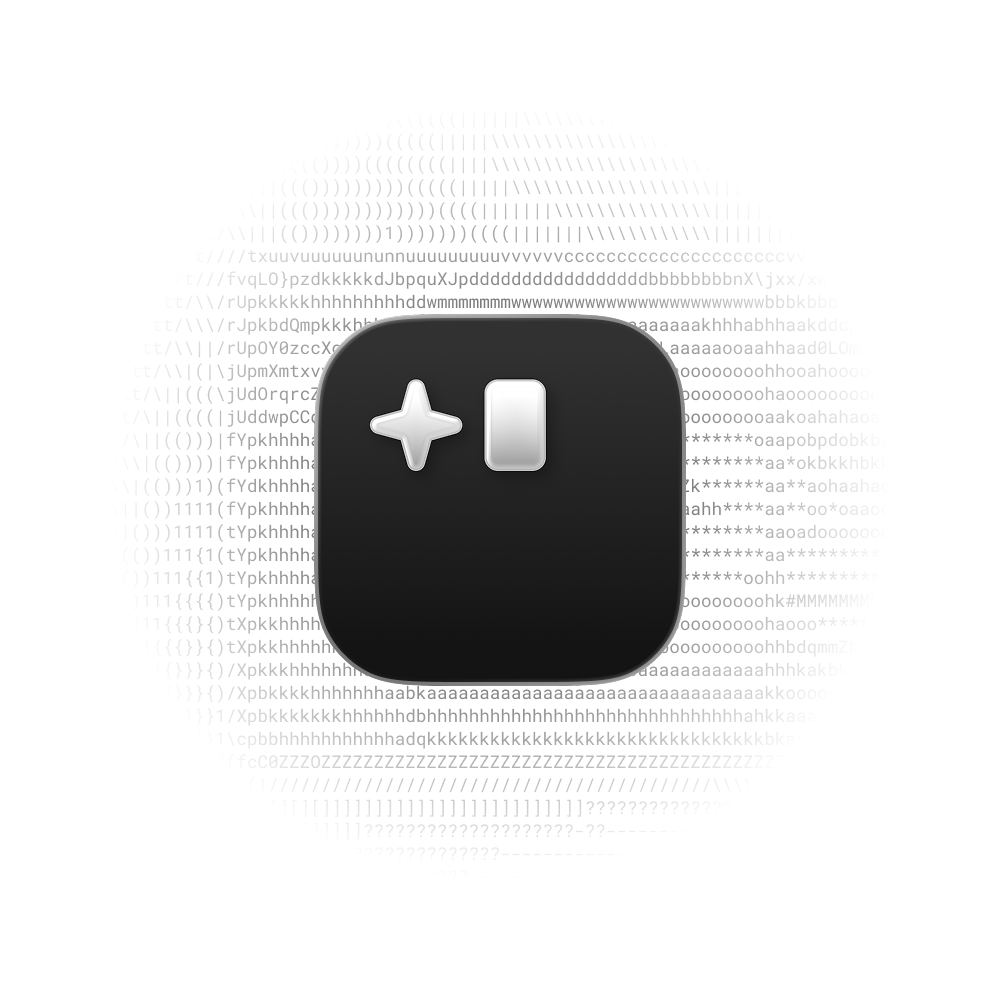
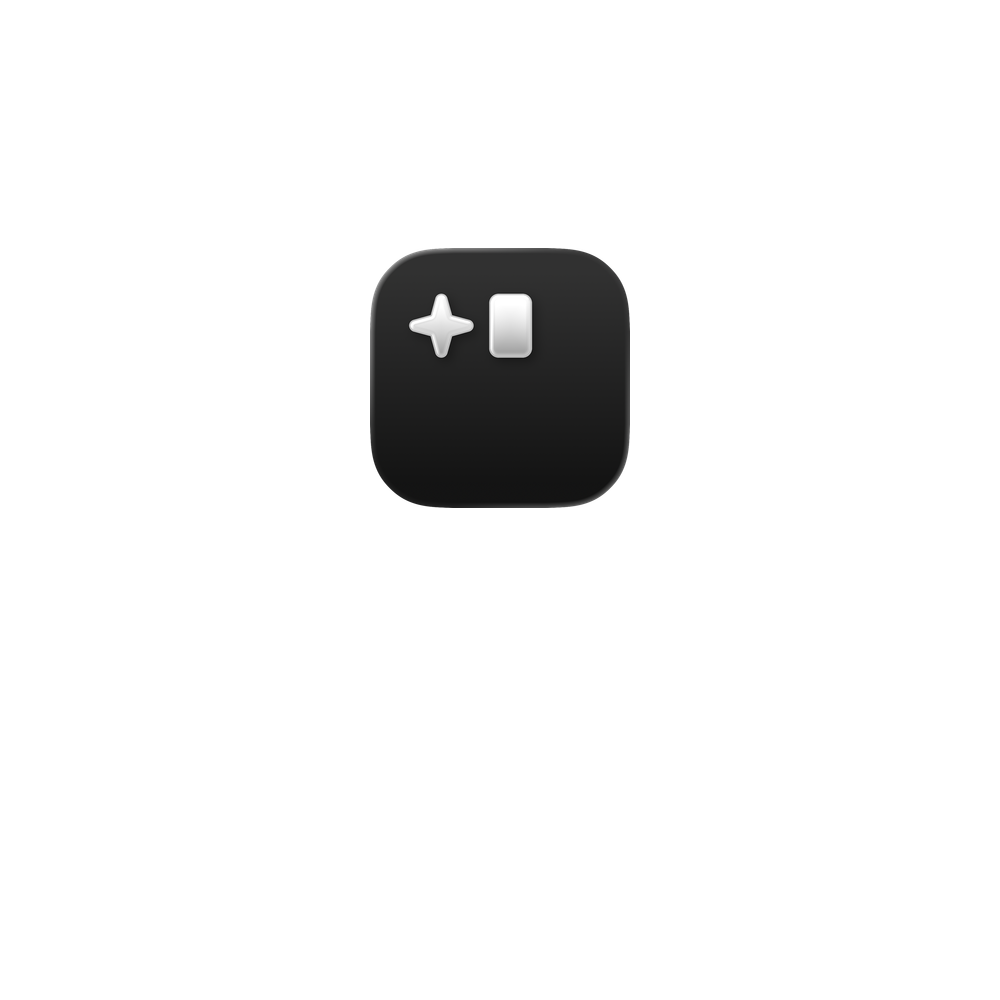
Paint a live ASCII field behind the Ultra tile
Ultra's cover carried its backdrop as pixels: a static ASCII field baked
into the PNG behind the app icon, fixed to one colour whichever theme the
page was in. Replace it with a live one.

<ascii-bg> is a zero-configuration web component — no attributes, props,
options or palette. It fills its parent, sits behind the parent's content,
and paints in whatever currentColor it inherits, so a theme swap or a
token change recolours it with nothing wired up. It resizes with its
parent, takes a subtle distortion from the pointer, and freezes to a
single paint under prefers-reduced-motion.

A product opts in with `tileBackground: ascii`. Ultra also moves to the
overlay layout it shares with the video tiles — full-height cover, title
and description floating over its foot — and its cover becomes the bare
icon on a transparent ground, so the field reads around it.

Claude-Session: https://claude.ai/code/session_01UM66Go8X1qX2EqxNb6Dsig

Changed region(s): [[0.155, 0.186, 0.837, 0.775], [0.434, 0.806, 0.527, 0.837], [0.527, 0.186, 0.589, 0.217]]

diff --git a/components/AsciiBg/ascii-bg.ts b/components/AsciiBg/ascii-bg.ts
@@ -1,0 +1,107 @@
+// <ascii-bg> — a zero-configuration animated ASCII field that fills its parent
+// and sits behind the parent's content. No attributes, no props, no palette:
+// it paints in whatever `currentColor` it inherits, so themes, dark mode and
+// hover states drive it for free. The parent needs `position: relative` and
+// `overflow: hidden`; anything that should sit above it needs `position`.
+const RAMP = " .:-=+*#%@";
+const CELL = 12;
+const FRAME = 40; // ~24fps — chunkier, and a fraction of the work of 60
+
+class AsciiBg extends HTMLElement {
+  private canvas!: HTMLCanvasElement;
+  private ctx!: CanvasRenderingContext2D;
+  private observer!: ResizeObserver;
+  private still!: MediaQueryList;
+  private onPointer!: (event: PointerEvent) => void;
+  private onMotion = () => this.tick();
+  private frame = 0;
+  private stamp = 0;
+  private cols = 0;
+  private rows = 0;
+  private width = 0;
+  private height = 0;
+  private pointer: [number, number] = [-1e4, -1e4];
+
+  connectedCallback() {
+    const root = this.shadowRoot ?? this.attachShadow({ mode: "open" });
+    root.innerHTML =
+      "<style>:host{position:absolute;inset:0;overflow:hidden;pointer-events:none;color:inherit}" +
+      "canvas{display:block;width:100%;height:100%}</style><canvas></canvas>";
+    this.canvas = root.querySelector("canvas")!;
+    this.ctx = this.canvas.getContext("2d")!;
+    this.still = matchMedia("(prefers-reduced-motion: reduce)");
+    // :host is pointer-events:none, so the pointer is tracked on the window and
+    // mapped into local space.
+    this.onPointer = (event) => {
+      const box = this.getBoundingClientRect();
+      this.pointer = [event.clientX - box.left, event.clientY - box.top];
+    };
+    window.addEventListener("pointermove", this.onPointer, { passive: true });
+    this.still.addEventListener("change", this.onMotion);
+    this.observer = new ResizeObserver(() => this.measure());
+    this.observer.observe(this);
+    this.measure();
+  }
+
+  disconnectedCallback() {
+    cancelAnimationFrame(this.frame);
+    this.observer.disconnect();
+    this.still.removeEventListener("change", this.onMotion);
+    window.removeEventListener("pointermove", this.onPointer);
+  }
+
+  private measure() {
+    const dpr = devicePixelRatio || 1;
+    const { width, height } = this.getBoundingClientRect();
+    this.width = width;
+    this.height = height;
+    this.canvas.width = Math.max(1, Math.round(width * dpr));
+    this.canvas.height = Math.max(1, Math.round(height * dpr));
+    // Resizing the canvas resets the context, so the state goes back after.
+    this.ctx.setTransform(dpr, 0, 0, dpr, 0, 0);
+    this.ctx.font = `${CELL}px ui-monospace, SFMono-Regular, Menlo, monospace`;
+    this.ctx.textBaseline = "top";
+    this.cols = Math.ceil(width / CELL) + 1;
+    this.rows = Math.ceil(height / CELL) + 1;
+    this.tick();
+  }
+
+  // Under reduced motion the field is frozen, so one paint is the whole job and
+  // the loop never starts.
+  private tick = (now = 0) => {
+    const frozen = this.still.matches;
+    cancelAnimationFrame(this.frame);
+    if (!frozen) this.frame = requestAnimationFrame(this.tick);
+    if (!frozen && now - this.stamp < FRAME) return;
+    this.stamp = now;
+    this.paint(frozen ? 0 : now / 1000);
+  };
+
+  private paint(time: number) {
+    const { ctx, cols, rows } = this;
+    const [px, py] = this.still.matches ? [-1e4, -1e4] : this.pointer;
+    ctx.clearRect(0, 0, this.width, this.height);
+    // Re-read every paint: that is what makes a theme swap or a hover on the
+    // parent recolour the field with no wiring at all.
+    ctx.fillStyle = getComputedStyle(this).color;
+    for (let row = 0; row < rows; row++) {
+      for (let col = 0; col < cols; col++) {
+        const x = col * CELL;
+        const y = row * CELL;
+        const pull = 1.2 / (1 + Math.hypot(x - px, y - py) * 0.03);
+        const wave =
+          Math.sin(col * 0.26 + time * 0.9 + Math.sin(row * 0.19 - time * 0.6) * 1.6) +
+          Math.sin(row * 0.31 - time * 0.7 + Math.cos(col * 0.15 + time * 0.4) * 1.3) +
+          pull;
+        const step = Math.round(((wave + 2) / 4) * (RAMP.length - 1));
+        const glyph = RAMP[Math.min(RAMP.length - 1, Math.max(0, step))];
+        if (glyph !== " ") ctx.fillText(glyph, x, y);
+      }
+    }
+  }
+}
+
+if (!customElements.get("ascii-bg")) customElements.define("ascii-bg", AsciiBg);
+
+// Side-effect import only; the empty export is what makes it a module.
+export {};

diff --git a/components/ProductCard/ProductCard.tsx b/components/ProductCard/ProductCard.tsx
@@ -2,6 +2,7 @@
 
 import Image from "next/image";
 import { useReducedMotion } from "framer-motion";
+import AsciiBg from "@/components/AsciiBg";
 import { Badge } from "@/components/ui/badge";
 import { Button } from "@/components/ui/button";
 import {
@@ -158,10 +159,20 @@ export default function ProductCard({
       >
         <Card
           className={cn(
-            "relative cursor-pointer gap-0 rounded-[24px] bg-transparent p-0 ring-1 ring-border/50 [corner-shape:superellipse(1.1)] min-[1280px]:aspect-square",
+            "relative isolate cursor-pointer gap-0 rounded-[24px] bg-transparent p-0 ring-1 ring-border/50 [corner-shape:superellipse(1.1)] min-[1280px]:aspect-square",
             fill && "h-full",
           )}
         >
+          {product.tileBackground === "ascii" && !still && (
+            // The field paints in whatever colour it inherits, so the tile
+            // sets one here and dark mode follows the token. -z-10 under an
+            // isolated card keeps it behind every sibling, positioned or not.
+            // Never on the sizer copies: they are invisible, and the field
+            // costs a canvas repaint a frame whether or not anyone sees it.
+            <div className="pointer-events-none absolute inset-0 -z-10 overflow-hidden rounded-[24px] text-foreground/25 [corner-shape:superellipse(1.1)]">
+              <AsciiBg />
+            </div>
+          )}
           {/* Both layouts keep the same boxes — a cover-shaped block above a
               text block — so an overlay tile is exactly as tall as a standard
               one and the belt can mix them without going ragged. Overlay only

diff --git a/lib/products.ts b/lib/products.ts
@@ -34,6 +34,9 @@ export interface Product {
    *  and description over its foot. Defaults to "standard", which stacks the
    *  cover above the text. Both are the same height, so a belt can mix them. */
   tileLayout?: "standard" | "overlay";
+  /** "ascii" paints a live animated ASCII field behind the tile's contents,
+   *  in place of a flat card. Defaults to none. */
+  tileBackground?: "ascii";
   /** Position in the ticker. Products without one sort after those with one,
    *  alphabetically by slug. */
   order?: number;
@@ -131,6 +134,13 @@ export function getProducts(): Product[] {
       );
     }
 
+    const tileBackground = data.tileBackground;
+    if (tileBackground !== undefined && tileBackground !== "ascii") {
+      throw new Error(
+        `content/products/${id}/index.md has an invalid "tileBackground" (${tileBackground}); expected "ascii"`,
+      );
+    }
+
     const coverFile = findMedia(dir, COVER_BASENAME);
     const detailFile = findMedia(dir, DETAIL_BASENAME);
     const cover = coverFile ? publicImageUrl(id, dir, coverFile) : undefined;
@@ -148,6 +158,7 @@ export function getProducts(): Product[] {
       coverFit,
       coverPosition,
       tileLayout,
+      tileBackground,
       order,
       details: content.trim(),
     };

diff --git a/components/AsciiBg/AsciiBg.tsx b/components/AsciiBg/AsciiBg.tsx
@@ -1,0 +1,22 @@
+"use client";
+
+import { useEffect } from "react";
+
+declare module "react" {
+  namespace JSX {
+    interface IntrinsicElements {
+      "ascii-bg": React.HTMLAttributes<HTMLElement>;
+    }
+  }
+}
+
+/** Mounts the <ascii-bg> custom element. The definition is imported on the
+ *  client only — it closes over `HTMLElement`, which does not exist on the
+ *  server — and the element upgrades itself as soon as it lands. */
+export default function AsciiBg() {
+  useEffect(() => {
+    void import("./ascii-bg");
+  }, []);
+
+  return <ascii-bg />;
+}

diff --git a/components/AsciiBg/index.ts b/components/AsciiBg/index.ts
@@ -1,0 +1,1 @@
+export { default } from "./AsciiBg";

diff --git a/CLAUDE.md b/CLAUDE.md
@@ -33,6 +33,7 @@ Marketing site for Petit. The codebase is built around a **landing-page template
 │  ├─ ThemeToggle/                   # DropdownMenu + sun/moon icons
 │  ├─ Logo/                          # animated SVG (kept custom)
 │  ├─ LogoMark/                      # static SVG mark (kept custom)
+│  ├─ AsciiBg/                       # <ascii-bg> web component + its React mount
 │  ├─ LandingPageTemplate/           # composes Hero + Answer + Body + FAQ + CTA
 │  ├─ LandingHero/                   # frontmatter-driven hero with Framer Motion fade-up
 │  ├─ LandingAnswer/                 # shadcn Alert wrapping aeo.summary
@@ -82,10 +83,17 @@ Products (the tiles in the home page's `ProductTicker`) are auto-discovered — 
 6. Optionally add `tag: Some Label` to the frontmatter for a short badge in the tile's top-right corner. Colour is keyed off the label in `TAG_CLASSES` (`components/ProductCard/ProductCard.tsx`): `Partnership` is purple, `Client Work` is green, `Experiment` is amber, and anything else — `Open-Source` included — falls back to the neutral `secondary` badge. The chromatic pairs are the `--tag-*` tokens in `globals.css`, defined for light and dark; add a token pair plus a `TAG_CLASSES` entry to introduce another colour. Omit the field and no badge appears.
 7. Optionally add `github: owner/repo` to the frontmatter for an open-source product. It swaps the drawer's single "Visit product" button for a **Download** + **GitHub** pair; Download points at `/api/download/<slug>`, which resolves the newest release asset at request time (see below).
 8. Optionally add `tileLayout: overlay` to spread the cover across the whole tile with the title and description floating over its foot in a panel. Both layouts render at the same height, so a belt can mix them.
-9. Optionally add `order: <number>` to place the product in the ticker. Products without one sort after those with one, alphabetically by slug — so a folder never has to be renamed to move a tile, which matters because the slug is baked into its media URLs.
-10. That's it — `getProducts()` reads every folder under `content/products/` and the ticker picks it up on the next dev reload or build. No slug list, no import to add.
+9. Optionally add `tileBackground: ascii` to paint a live animated ASCII field behind the tile (see below). Pair it with a cover that has a transparent ground — an opaque cover would just hide it.
+10. Optionally add `order: <number>` to place the product in the ticker. Products without one sort after those with one, alphabetically by slug — so a folder never has to be renamed to move a tile, which matters because the slug is baked into its media URLs.
+11. That's it — `getProducts()` reads every folder under `content/products/` and the ticker picks it up on the next dev reload or build. No slug list, no import to add.
 
 `public/products/` is gitignored — it's a generated mirror of `content/products/<slug>/*`, not a source of truth. `scripts/sync-product-images.mjs` (run from `predev` / `prebuild`) does the copying.
+
+### The ASCII tile background
+
+`components/AsciiBg/ascii-bg.ts` defines `<ascii-bg>`, a zero-configuration Web Component: drop it into any element with `position: relative` and `overflow: hidden` and it fills that element with an animated organic ASCII field on a Canvas 2D layer, behind everything else. It has no attributes, props or options, and no palette — it paints in whatever `currentColor` it inherits, so a theme swap, a token change or a hover on the parent recolours it with nothing wired up. It resizes with its parent through a `ResizeObserver`, takes a subtle distortion from the pointer, freezes under `prefers-reduced-motion`, and tears down its frame, observer and listener on disconnect.
+
+`components/AsciiBg/AsciiBg.tsx` is the React mount: a client component that imports the definition in an effect — the class closes over `HTMLElement`, which does not exist on the server — and renders the element. `ProductCard` renders it for any product with `tileBackground: ascii`, in a wrapper that sets the field's colour and drops it to `-z-10` inside the card's stacking context. The ticker's invisible sizing copies skip it; nobody sees them, and the field costs a repaint a frame either way.
 
 ### Latest-release downloads
 

diff --git a/content/products/ultra/index.md b/content/products/ultra/index.md
@@ -4,7 +4,8 @@ name: Ultra for macOS
 description: Put your agents to work without leaving the terminal.
 url: https://github.com/petit-software/ultra-swift
 tag: Open-Source
-coverFit: cover
+tileLayout: overlay
+tileBackground: ascii
 github: petit-software/ultra-swift
 ---
 
